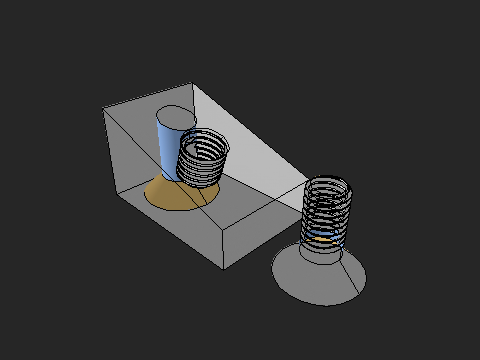
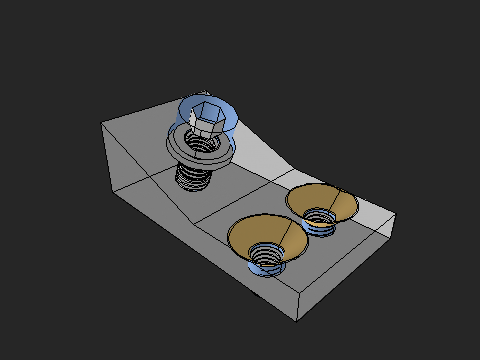
Angled fitting: an assembly with the screws in their holes
The example was a bracket with a tap on its inclined face, a
countersunk hole up through its underside, and a loose screw beside it.
It is now an assembly: the M6 cap screw stands in the angled tap on the
tap's own axis, on an ISO 7089 washer, phased to the tap's thread (lifted
1.6 mm, so turned back 1.6 turns; cos/sin 144 deg written exactly). The
bracket gains a flange screwed down through two countersunk holes with
flat-head screws seated flush in them.

Assembly::interference: bracket x washer and washer x screw are
touching, everything else is clear at 0.05 mm. A half-turn phase error
reports 82.7 mm^3, so the check sees a mis-phased screw. The washer is
needed: seated straight on the tap's face, the screw's full-major turn
under its head crosses the first tap ridge (PK-849); that boolean
declines instead of reporting a volume (PK-850).

The display-fold and trim-containment censuses read an assembly's
occurrences when a script returns one; angled_fitting rows re-pinned
per body (bracket 7 facets over 12 deg, worst 12.3).

diff --git a/crates/popkern-rhai/tests/display_fold_census.rs b/crates/popkern-rhai/tests/display_fold_census.rs
@@ -19,7 +19,11 @@ const CEILINGS: &[(&str, usize, usize, f64)] = &[
     // E1 (cross-face boundary caps) then E4 steps (3D Delaunay flips,
     // shear-aware chart Delaunay, obtuse-facet bisection): from the
     // 2026-10-13 baseline 0/1/2/1/188/48/124/502/10/19.
-    ("angled_fitting", 1, 0, 11.5),
+    // angled_fitting became an assembly (2026-10-15): bracket, washer,
+    // cap screw, then the flat-head screws (body 1 was the loose screw).
+    ("angled_fitting", 0, 7, 12.4),
+    ("angled_fitting", 2, 0, 12.0),
+    ("angled_fitting", 3, 0, 11.5),
     ("countersunk_joint", 1, 0, 12.0),
     ("hex_bolt", 0, 0, 12.0),
     ("threaded_stud", 0, 0, 12.0),
@@ -166,6 +170,29 @@ fn in_face_folds(mesh: &popkern_mesh::TriMesh) -> (usize, f64) {
     (over, worst)
 }
 
+/// A gallery script's bodies: a model's in body order, an assembly's
+/// occurrences in placement order (world frame).
+fn script_bodies(
+    model: Option<popkern_script::Model>,
+    assembly: Option<popkern_assembly::Assembly>,
+) -> Vec<popkern_core::topology::BRep> {
+    match (model, assembly) {
+        (Some(mut model), _) => model
+            .to_parts_all()
+            .expect("parts")
+            .into_iter()
+            .map(|p| p.brep().clone())
+            .collect(),
+        (None, Some(mut assembly)) => assembly
+            .flatten()
+            .expect("flatten")
+            .into_iter()
+            .map(|o| o.brep)
+            .collect(),
+        (None, None) => panic!("script returns a model or an assembly"),
+    }
+}
+
 #[test]
 fn gallery_display_facet_tilts_stay_under_their_ceilings() {
     let root = format!("{}/examples", env!("CARGO_MANIFEST_DIR"));
@@ -176,16 +203,15 @@ fn gallery_display_facet_tilts_stay_under_their_ceilings() {
         let source = std::fs::read_to_string(format!("{root}/{stem}.rhai")).expect("script");
         let mut host = popkern_rhai::ScriptHost::with_options(Default::default());
         let run = host.run(&source, stem).expect("script runs");
-        let mut model = run.model.expect("script returns a model");
-        let parts = model.to_parts_all().expect("parts");
+        let bodies = script_bodies(run.model, run.assembly);
         for &(_, body, max_over, max_worst) in CEILINGS.iter().filter(|c| c.0 == stem) {
             let mesh = popkern_mesh::tessellate(
-                parts[body].brep(),
+                &bodies[body],
                 &popkern_mesh::TessellationOptions::display(),
             )
             .expect("display mesh");
             let (folds, worst_fold) = in_face_folds(&mesh);
-            let (over, worst) = facet_tilts(parts[body].brep(), &mesh);
+            let (over, worst) = facet_tilts(&bodies[body], &mesh);
             eprintln!(
                 "{stem}#{body}: facets tilted over 12° {over} worst {worst:.1}° (folds over 12.5° {folds}, worst {worst_fold:.1}°)"
             );

diff --git a/crates/popkern-rhai/tests/trim_containment_census.rs b/crates/popkern-rhai/tests/trim_containment_census.rs
@@ -16,15 +16,26 @@ fn outside_counts(script: &str) -> Vec<(String, usize, usize)> {
     let path = format!("{}/examples/{script}.rhai", env!("CARGO_MANIFEST_DIR"));
     let source = std::fs::read_to_string(&path).expect("script");
     let mut host = popkern_rhai::ScriptHost::with_options(Default::default());
-    let mut model = host
-        .run(&source, script)
-        .expect("runs")
-        .model
-        .expect("model");
-    let parts = model.to_parts_all().expect("parts");
+    let run = host.run(&source, script).expect("runs");
+    // A model's bodies in body order, an assembly's occurrences in
+    // placement order (world frame).
+    let bodies: Vec<popkern_core::topology::BRep> = match (run.model, run.assembly) {
+        (Some(mut model), _) => model
+            .to_parts_all()
+            .expect("parts")
+            .into_iter()
+            .map(|p| p.brep().clone())
+            .collect(),
+        (None, Some(mut assembly)) => assembly
+            .flatten()
+            .expect("flatten")
+            .into_iter()
+            .map(|o| o.brep)
+            .collect(),
+        (None, None) => panic!("{script}: returns a model or an assembly"),
+    };
     let mut rows = Vec::new();
-    for (pi, part) in parts.iter().enumerate() {
-        let brep = part.brep();
+    for (pi, brep) in bodies.iter().enumerate() {
         let mesh = popkern_mesh::tessellate(brep, &popkern_mesh::TessellationOptions::display())
             .expect("mesh");
         for fm in &mesh.face_meshes {

diff --git a/crates/popkern-cli/tests/gallery/table.rs b/crates/popkern-cli/tests/gallery/table.rs
@@ -187,11 +187,12 @@ pub(crate) const GALLERY: &[(&str, &str, &str, usize, &str)] = &[
     (
         "angled_fitting",
         "Angled fitting",
-        "A wedge bracket tapped normal to its inclined face, a countersunk \
-         clearance hole through the base, and the flat-head screw that fits it.",
-        6,
-        "tapped_hole and clearance_hole on arbitrary axes, axis_at placement, \
-         countersinks, thread fit classes",
+        "A wedge bracket with an M6 cap screw and washer threaded in normal to \
+         its inclined face, screwed down by two flat-head screws flush in \
+         countersunk holes through its flange.",
+        12,
+        "tapped_hole and clearance_hole on arbitrary axes, placing fasteners on \
+         hole axes (frame), thread phase, countersinks, assemblies",
     ),
     (
         "door_hinge",
